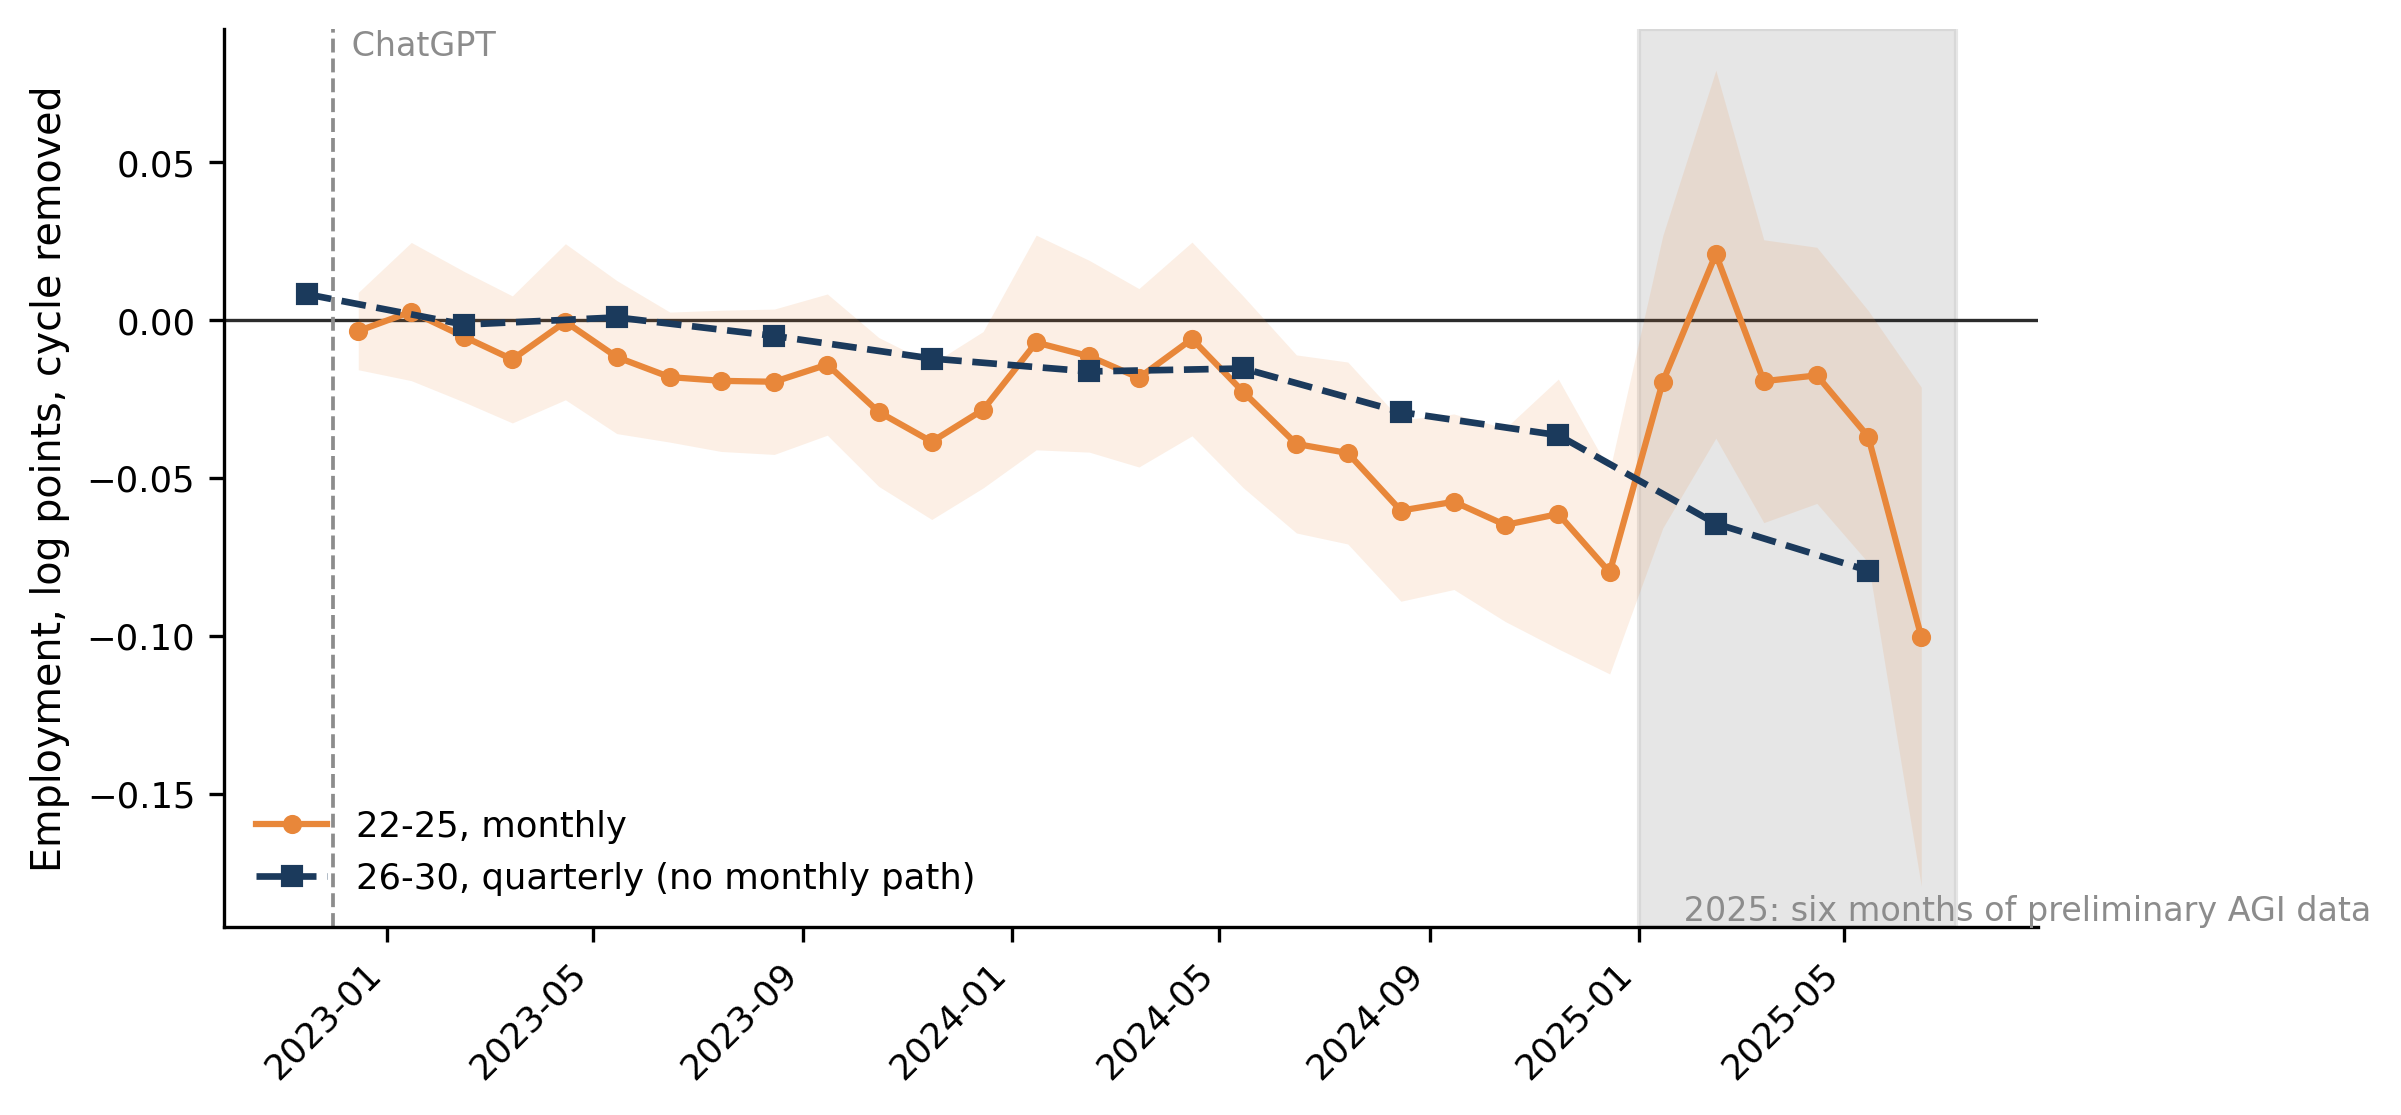
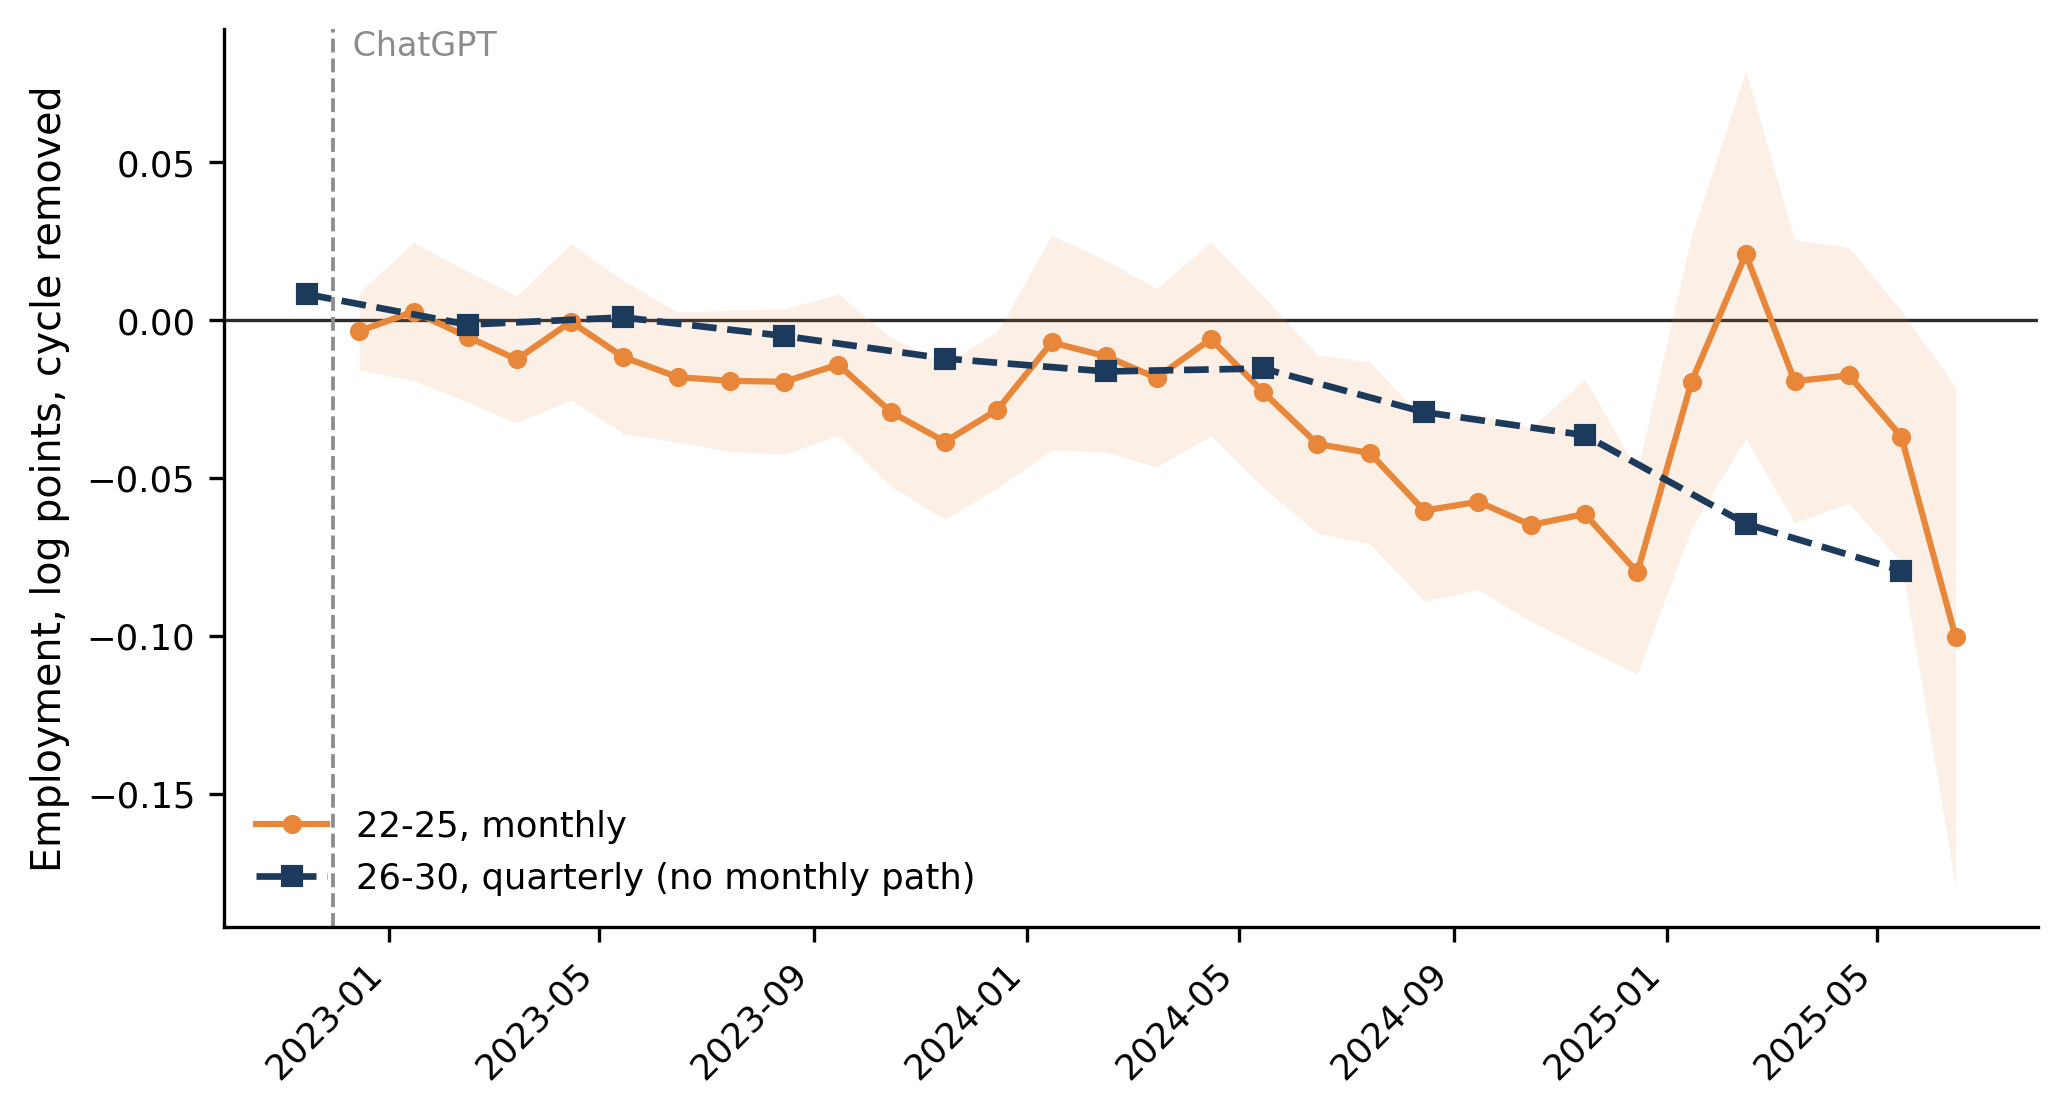
figure: drop the 2025 shading; SCB confirms AGI months are not revised
ML has it from SCB that the AGI monthly figures are not revised after
delivery, so 2025 is definitive despite the _prel naming. The grey band
read as a health warning on data that does not warrant one.

What survives is only that 2025 is six months rather than twelve, which
qualifies precision, not whether the numbers move. That belongs in the
caption.

Claude-Session: https://claude.ai/code/session_01Ne4TL9xKpGBakALMCR9kK6

diff --git a/revision/local/l14_fig_spreading.py b/revision/local/l14_fig_spreading.py
@@ -36,6 +36,12 @@ inexplicable point. Monthly shows what is behind it: February 2025 at
 preliminary months against 0.074 across all of complete 2024. Only
 22-25 has a monthly path -- 26-30 was estimated at quarterly and yearly
 frequency only -- so the monthly chart mixes frequencies and says so.
+
+2025 IS NOT PRELIMINARY. SCB confirmed to ML on 21 September 2026 that
+the AGI monthly figures are not revised after delivery. Earlier notes
+in this project hedged the 2025 endpoint as preliminary; that hedge is
+withdrawn. The endpoint still rests on six months rather than twelve,
+which is a different and much weaker caveat.
 """
 import sys
 from pathlib import Path
@@ -104,14 +110,12 @@ def monthly_figure(d: pd.DataFrame) -> int:
     ax.text(pd.Timestamp(2022, 12, 5), ax.get_ylim()[1], " ChatGPT",
             fontsize=8, color=GRAY, va="top")
 
-    # the preliminary half-year, shaded so the reader cannot miss it
-    lo = pd.Timestamp(2025, 1, 1)
-    hi = max(mb["t"].max(), qb["t"].max() if not qb.empty else lo)
-    ax.axvspan(lo, hi + pd.Timedelta(days=20), color=LIGHT_GRAY,
-               alpha=0.45, zorder=0)
-    ax.text(lo + pd.Timedelta(days=20), ax.get_ylim()[0],
-            " 2025: six months of preliminary AGI data",
-            fontsize=8, color=GRAY, va="bottom")
+    # NO SHADING ON 2025. SCB confirmed to ML that the AGI months are not
+    # revised after delivery, so 2025 is definitive and not preliminary.
+    # What remains true is only that it is half a year, which is a
+    # statement about how many months the endpoint rests on, not about
+    # whether those months will change. That belongs in the caption, not
+    # in a grey box that reads as a health warning.
 
     ax.set_ylabel("Employment, log points, cycle removed", fontsize=9.5)
     ax.spines[["top", "right"]].set_visible(False)
